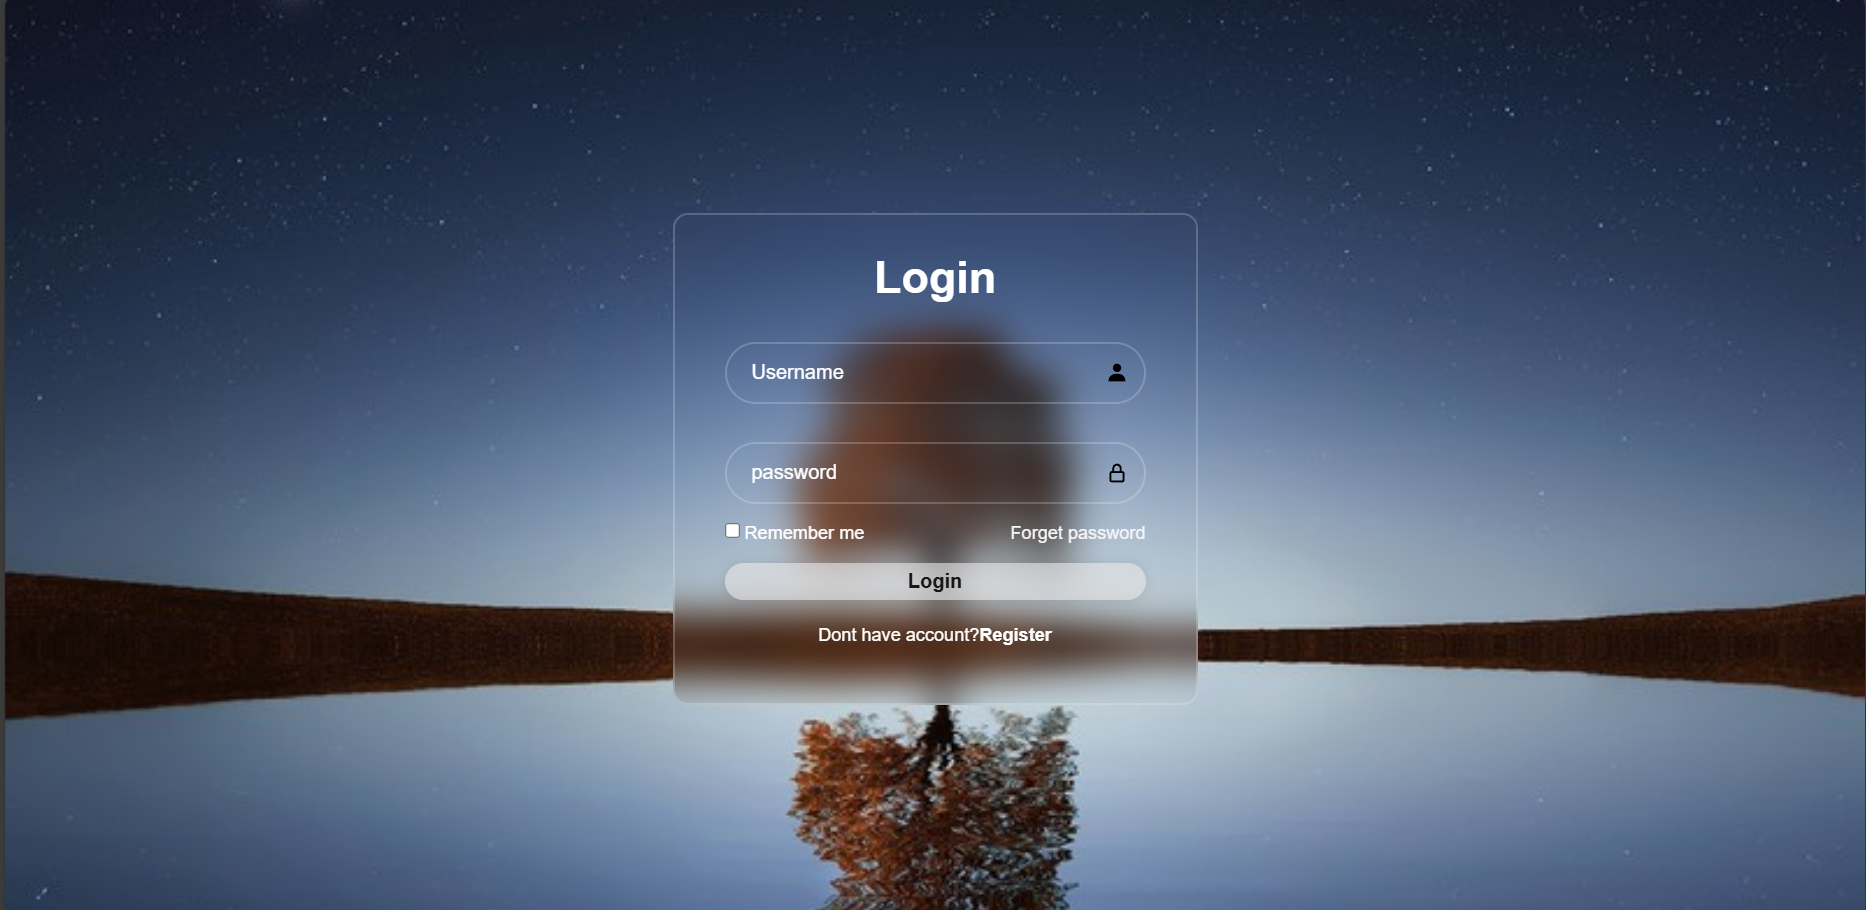
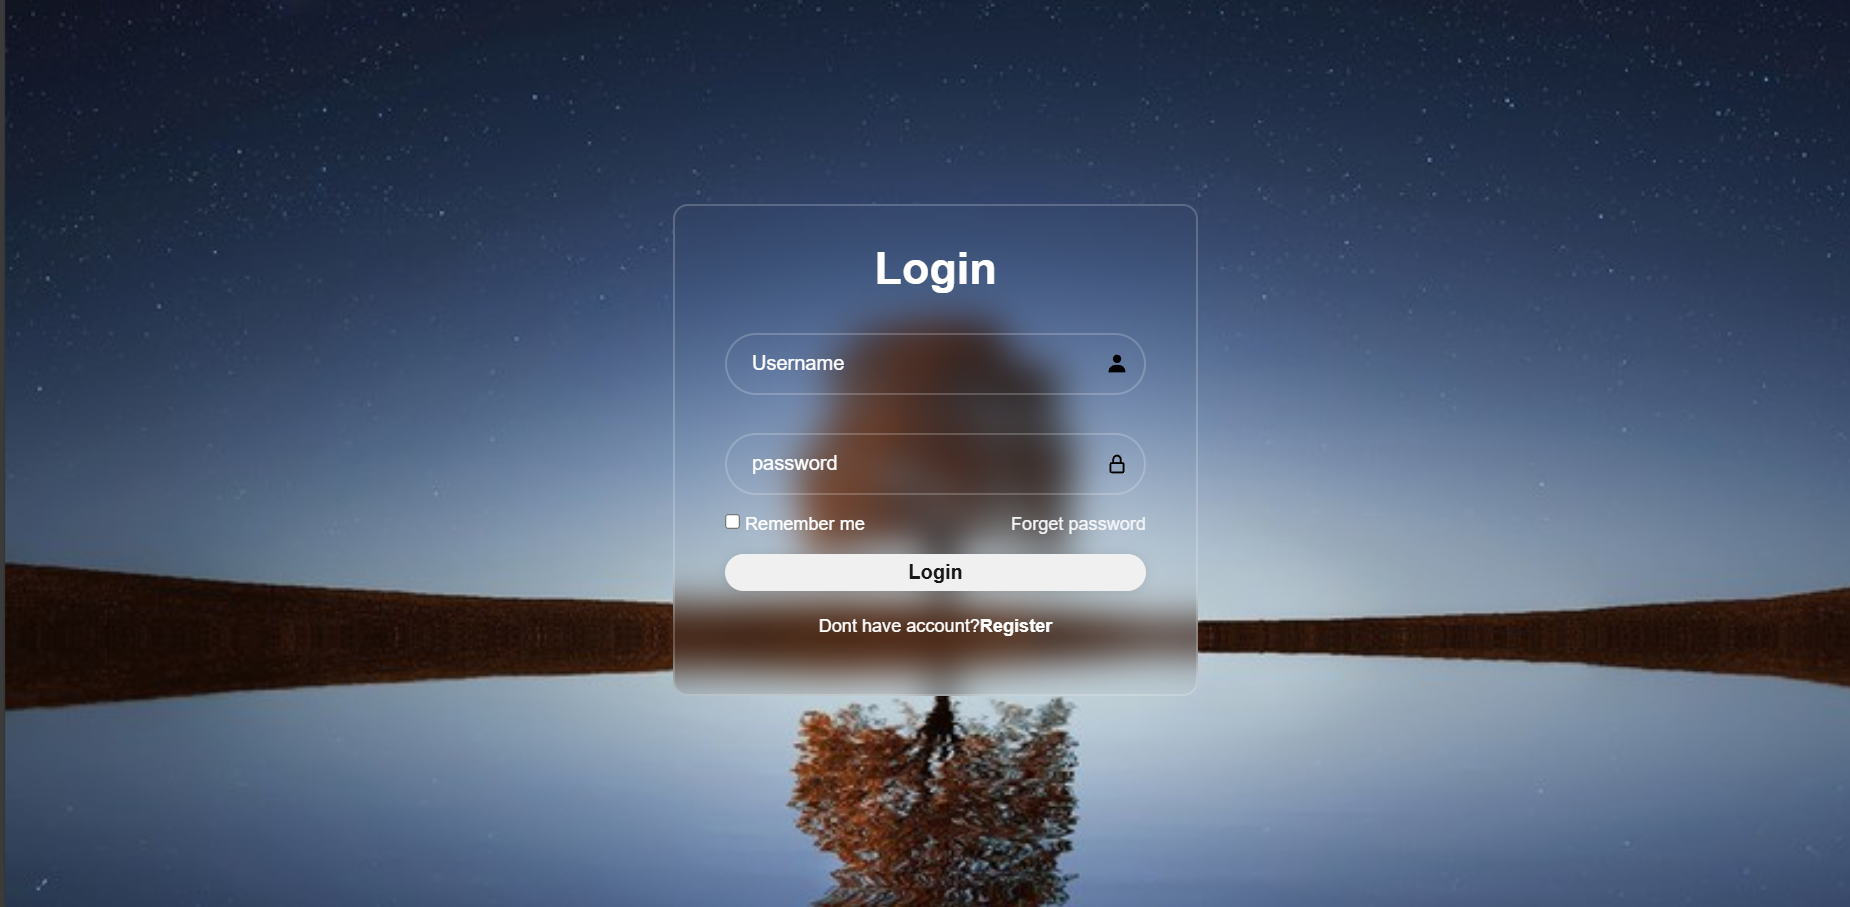
addnewimag

Changed region(s): [[0.0, 0.2778, 1.0, 1.0], [0.3697, 0.2161, 0.647, 0.247]]

diff --git a/loginpage/log.css b/loginpage/log.css
@@ -114,7 +114,7 @@ margin:-15px 0 15px
     font-size: 16px;
     color: #181616;
     font-weight: 600;
-    background:rgba(230, 229, 229, 0.6);
+    background:rgba(230, 229, 229,);
     
 }
 
